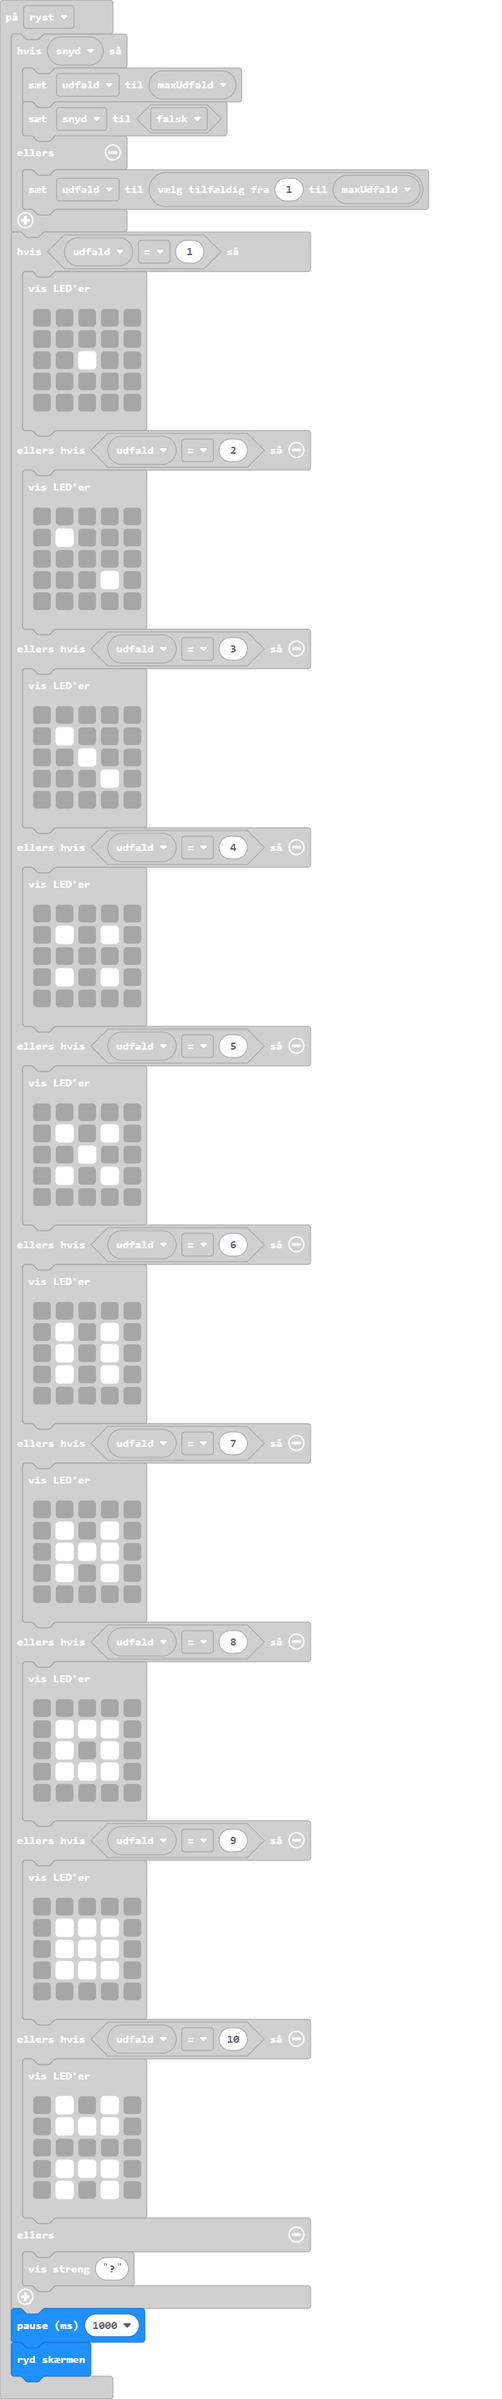
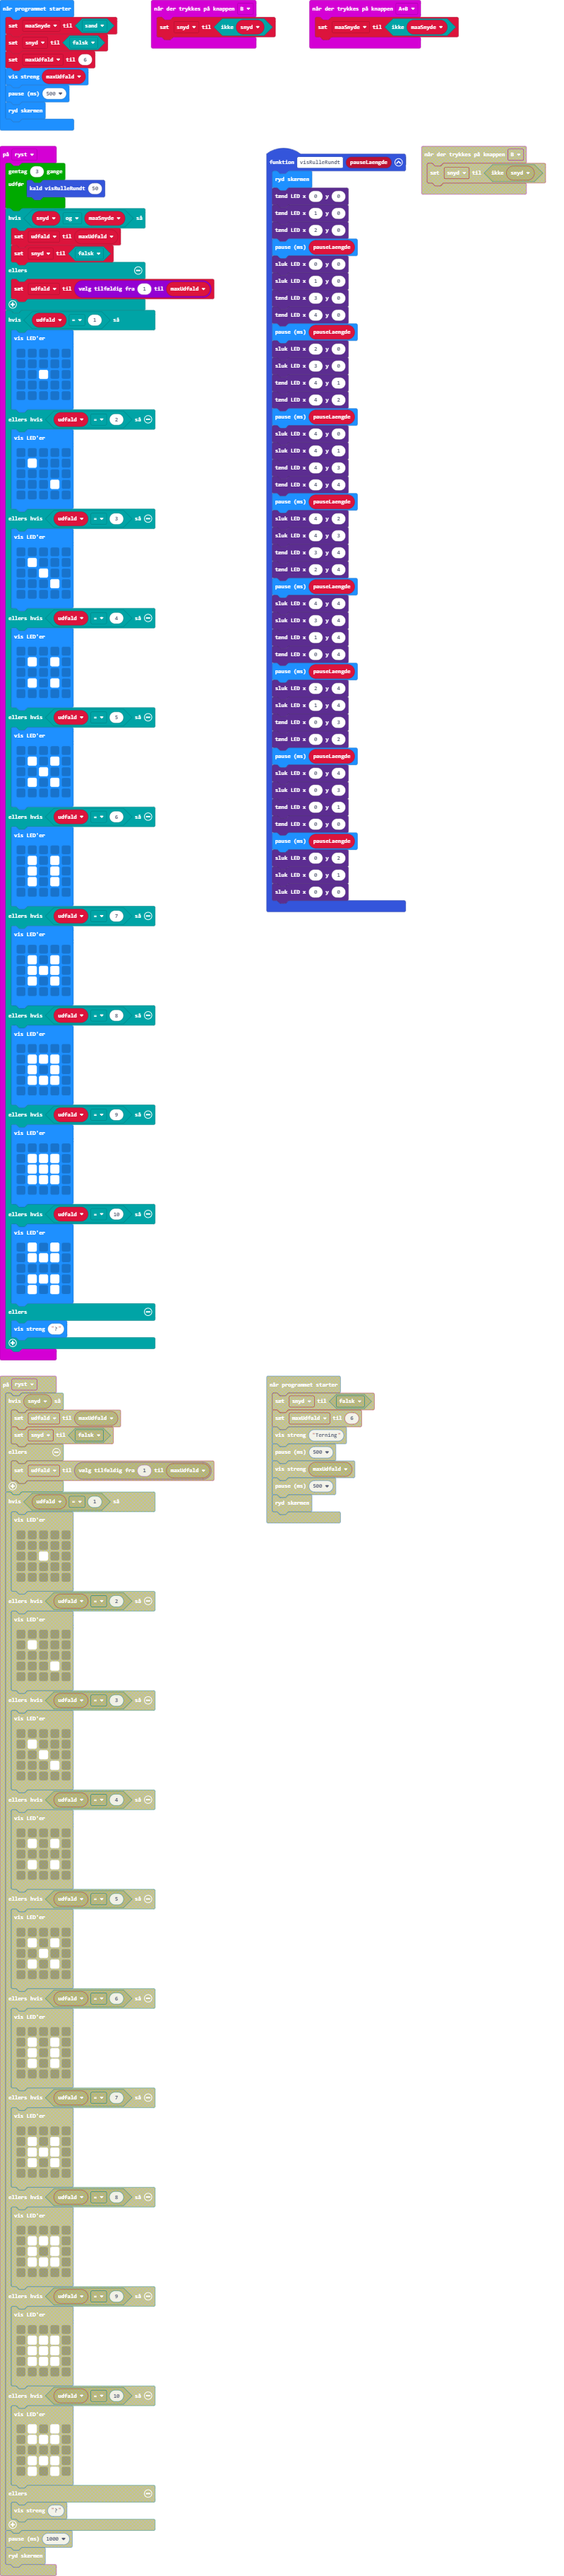
Opdater main.blocks, main.ts

diff --git a/main.ts b/main.ts
@@ -1,5 +1,8 @@
 input.onGesture(Gesture.Shake, function () {
-    if (snyd) {
+    for (let index = 0; index < 3; index++) {
+        visRulleRundt(50)
+    }
+    if (snyd && maaSnyde) {
         udfald = maxUdfald
         snyd = false
     } else {
@@ -88,8 +91,6 @@ input.onGesture(Gesture.Shake, function () {
     } else {
         basic.showString("?")
     }
-    basic.pause(1000)
-    basic.clearScreen()
 })
 input.onButtonPressed(Button.A, function () {
     if (maxUdfald == 6) {
@@ -101,16 +102,64 @@ input.onButtonPressed(Button.A, function () {
     basic.pause(500)
     basic.clearScreen()
 })
+input.onButtonPressed(Button.AB, function () {
+    maaSnyde = !(maaSnyde)
+})
 input.onButtonPressed(Button.B, function () {
     snyd = !(snyd)
 })
+function visRulleRundt (pauseLaengde: number) {
+    basic.clearScreen()
+    led.plot(0, 0)
+    led.plot(1, 0)
+    led.plot(2, 0)
+    basic.pause(pauseLaengde)
+    led.unplot(0, 0)
+    led.unplot(1, 0)
+    led.plot(3, 0)
+    led.plot(4, 0)
+    basic.pause(pauseLaengde)
+    led.unplot(2, 0)
+    led.unplot(3, 0)
+    led.plot(4, 1)
+    led.plot(4, 2)
+    basic.pause(pauseLaengde)
+    led.unplot(4, 0)
+    led.unplot(4, 1)
+    led.plot(4, 3)
+    led.plot(4, 4)
+    basic.pause(pauseLaengde)
+    led.unplot(4, 2)
+    led.unplot(4, 3)
+    led.plot(3, 4)
+    led.plot(2, 4)
+    basic.pause(pauseLaengde)
+    led.unplot(4, 4)
+    led.unplot(3, 4)
+    led.plot(1, 4)
+    led.plot(0, 4)
+    basic.pause(pauseLaengde)
+    led.unplot(2, 4)
+    led.unplot(1, 4)
+    led.plot(0, 3)
+    led.plot(0, 2)
+    basic.pause(pauseLaengde)
+    led.unplot(0, 4)
+    led.unplot(0, 3)
+    led.plot(0, 1)
+    led.plot(0, 0)
+    basic.pause(pauseLaengde)
+    led.unplot(0, 2)
+    led.unplot(0, 1)
+    led.unplot(0, 0)
+}
 let udfald = 0
 let maxUdfald = 0
 let snyd = false
+let maaSnyde = false
+maaSnyde = true
 snyd = false
 maxUdfald = 6
-basic.showString("Terning")
-basic.pause(500)
 basic.showString("" + (maxUdfald))
 basic.pause(500)
 basic.clearScreen()
